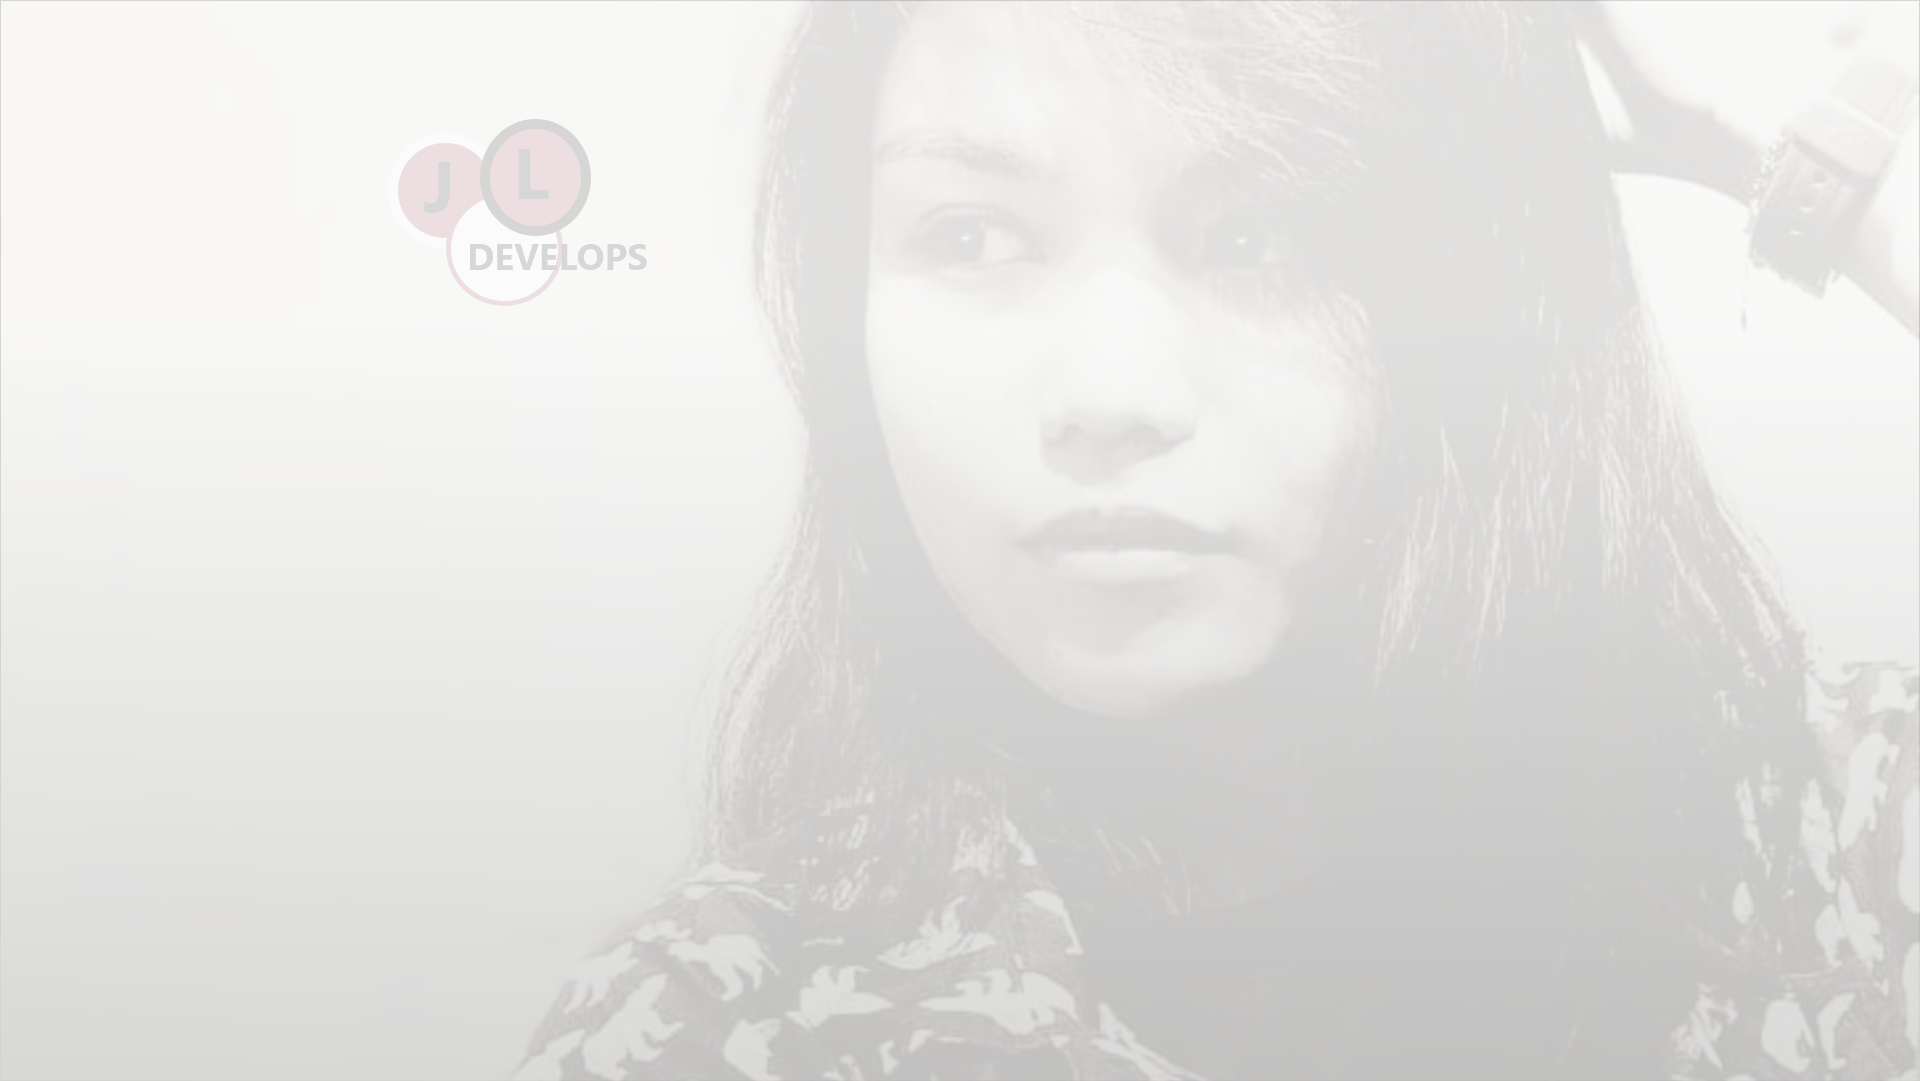
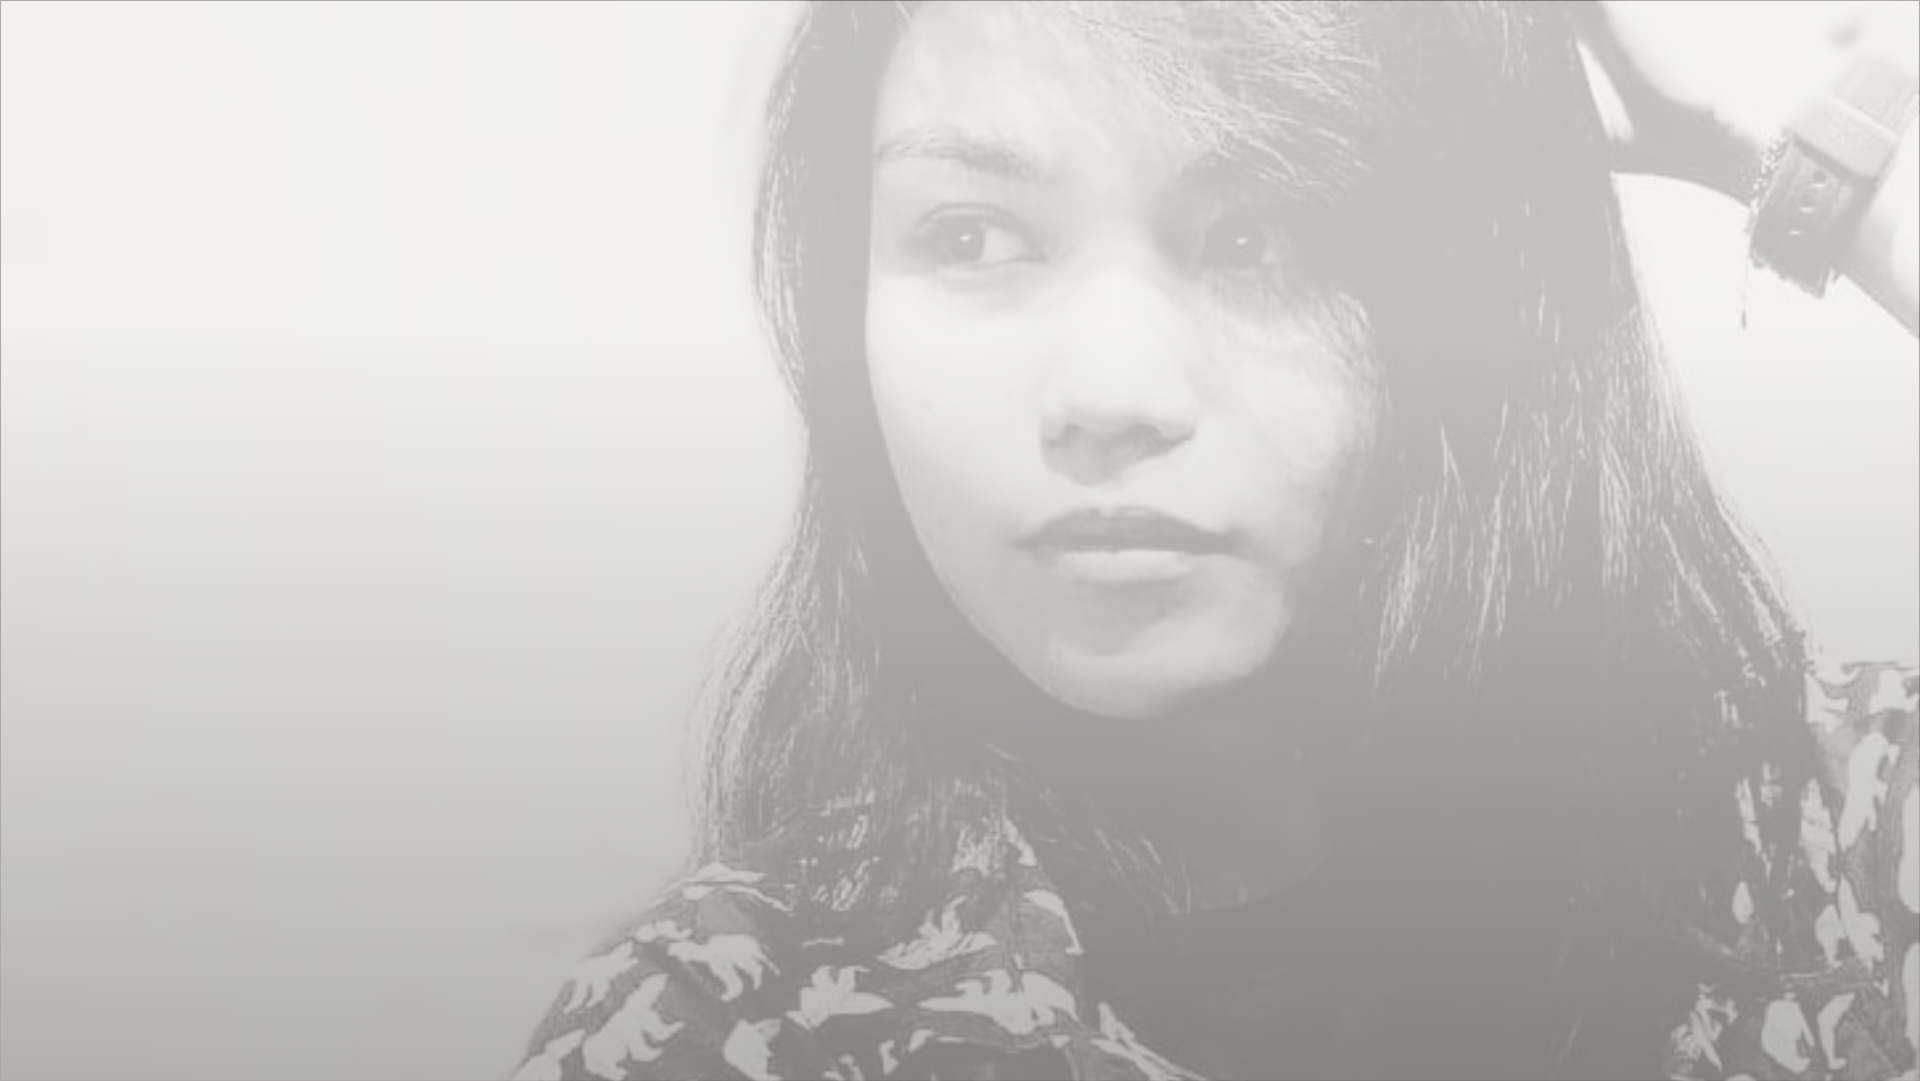
footer

diff --git a/htdocs/wp-content/themes/template/data/scss/layout/pages/_index.scss b/htdocs/wp-content/themes/template/data/scss/layout/pages/_index.scss
@@ -1,20 +1,45 @@
 .p-index {
+padding-top: 65px;
+
   &__carousel {
     height: 600px;
     background: url("../img/index/bg-main-visual.jpg") no-repeat;
     background-size: cover;
+    background-attachment: fixed;
+    background-position-y: 65px;
     position: relative;
-    top: 65px;
 
     @include mq_sp {
-      height: 20rem;
+      height: 100vh;
       background: url("../img/index/sp_bg-main-visual.jpg") no-repeat;
       background-size: cover;
+      background-attachment: fixed;
+      background-position-y: 65px;
     }
 
     &__text {
       position: absolute;
       top: 250px;
+
+      @include mq_pc {
+        &::before {
+          position: absolute;
+          content: "";
+          height: 92px;
+          width: 131px;
+          background: url("../img/common/logo.svg") no-repeat;
+          background-size: contain;
+          left: 0;
+          right: 0;
+          margin: auto;
+          top: -160px;
+          opacity: 0.2;
+        }
+      }
+
+      @include mq_sp {
+        top: 0;
+      }
 
       &1 {
         font-size: 50px;
@@ -38,5 +63,10 @@
         }
       }
     }
+  }
+
+  &__works {
+    background: #afafaf;
+    padding: 100px 0;
   }
 }

diff --git a/htdocs/wp-content/themes/template/data/scss/layout/_footer.scss b/htdocs/wp-content/themes/template/data/scss/layout/_footer.scss
@@ -1,15 +1,37 @@
 .l-footer {
-background: #afafaf;
+  background: url("../img/common/bg-footer.png") no-repeat;
+  background-size: cover;
+  background-position: center 12px;
+  width: 100%;
+  height: auto;
+  text-align: center;
+  padding: 35px 0 0;
+  margin-top: -100px;
 
   &__logo {
+    margin-bottom: 40px;
+
     &__anchor {
       text-decoration: none;
       color: inherit;
     }
   }
 
+  &__icon-container {
+    height: 28px;
+    display: flex;
+    justify-content: center;
+    gap: 25px;
+    margin-bottom: 40px;
+
+    &__icon {
+      //
+    }
+  }
+
   &__copyright {
     text-align: center;
-    padding: 1rem 0;
+    padding: 7.5px 0;
+    background: $primary;
   }
 }

diff --git a/htdocs/wp-content/themes/template/data/scss/component/_c-button.scss b/htdocs/wp-content/themes/template/data/scss/component/_c-button.scss
@@ -2,11 +2,12 @@
   display: block;
   text-align: center;
   width: max-content;
-  padding: 0.5rem 2rem;
-  background: #afafaf;
-  border: 1px solid #000;
+  padding: 10px 42px;
+  background: #fff;
+  border: 0.5px solid $secondary;
+  border-radius: 40px;
   text-decoration: none;
-  color: #000;
+  color: $primary;
   transition: 0.3s;
 
   &:hover {

diff --git a/htdocs/wp-content/themes/template/data/scss/base/_variables.scss b/htdocs/wp-content/themes/template/data/scss/base/_variables.scss
@@ -7,7 +7,7 @@ $pc-min-width: calc(#{$pc-layout-width}px + #{$pc-margin * 2});
 // SmartPhone
 $sp-width: 375;
 $sp-width-breakpoint: $sp-width * 2;
-$sp-margin: 2rem;
+$sp-margin: 1rem;
 
 //default
 $font-default: 'Noto Sans', sans-serif;

diff --git a/htdocs/wp-content/themes/template/page-home.php b/htdocs/wp-content/themes/template/page-home.php
@@ -6,21 +6,24 @@
       <div class="p-index__carousel__text">
         <p class="p-index__carousel__text1 u-font-serif">Hi there! I am <span class="p-index__carousel__text1__span">JEN</span>.</p>
         <p class="p-index__carousel__text2">A developer that loves designing and developing.<br> <span></span> Let me build your idea into reality for I am<br><span class="p-index__carousel__text2__span">YOUR DREAM DEVELOPER</span>.</p>
-        <a href="#" class="c-button">Build Now!</a>
+        <a href="#" class="c-button u-font-serif">Build Now!</a>
       </div>
     </div>
   </div>
-  <div class="u-layout">
-    <h1 class="u-heading">This is Heading</h1>
-    <h2 class="u-subheading">This is Subheading</h2>
-    <p class="u-text is-big">This is Big Text</p>
-    <p class="u-text is-med">This is Medium Text</p>
-    <p class="u-text is-small">This is Small Text</p>
+  <div class="p-index__works">
+    <div class="u-layout">
+      <h1 class="u-heading">This is Heading</h1>
+      <h2 class="u-subheading">This is Subheading</h2>
+      <p class="u-text is-big">This is Big Text</p>
+      <p class="u-text is-med">This is Medium Text</p>
+      <p class="u-text is-small">This is Small Text</p>
 
-    <a href="#" class="c-button">Button</a>
-    <a href="#" class="c-button is-primary">Primary Button</a>
-    <a href="#" class="c-button is-secondary">Secondary Button</a>
+      <a href="#" class="c-button">Button</a>
+      <a href="#" class="c-button is-primary">Primary Button</a>
+      <a href="#" class="c-button is-secondary">Secondary Button</a>
+    </div>
   </div>
+
 </div>
 
 <?php get_footer(); ?>

diff --git a/htdocs/wp-content/themes/template/footer.php b/htdocs/wp-content/themes/template/footer.php
@@ -1,9 +1,16 @@
 <footer>
   <div class="l-footer">
     <div class="u-layout">
-      <p class="l-footer__logo"><a href="<?php echo home_url('/') ?>" class="l-footer__logo__anchor">Logo</a></p>
-      <p class="l-footer__copyright">All rights reserved 2022</p>
+      <p class="l-footer__logo"><a href="<?php echo home_url('/') ?>" class="l-footer__logo__anchor"> <img src="<?php echo get_template_directory_uri(); ?>/data/img/common/logo.svg" alt="jldevelops-logo"> </a></p>
+      <div class="l-footer__icon-container">
+        <a href="#" class="l-footer__icon-container__icon"><img src="<?php echo get_template_directory_uri(); ?>/data/img/common/tel.svg" alt="phone"></a>
+        <a href="#" class="l-footer__icon-container__icon"><img src="<?php echo get_template_directory_uri(); ?>/data/img/common/mail.svg" alt="mail"></a>
+        <a href="#" class="l-footer__icon-container__icon"><img src="<?php echo get_template_directory_uri(); ?>/data/img/common/fb.svg" alt="fb"></a>
+        <a href="#" class="l-footer__icon-container__icon"><img src="<?php echo get_template_directory_uri(); ?>/data/img/common/instagram.svg" alt="instagram"></a>
+        <a href="#" class="l-footer__icon-container__icon"><img src="<?php echo get_template_directory_uri(); ?>/data/img/common/linkedin.svg" alt="linkedin"></a>
+      </div>
     </div>
+    <p class="l-footer__copyright">© 2022 jl.develops</p>
   </div>
 </footer>
 

diff --git a/htdocs/wp-content/themes/template/header.php b/htdocs/wp-content/themes/template/header.php
@@ -3,6 +3,7 @@
   <head>
     <meta charset="utf-8">
     <meta name="viewport" content="width=device-width, initial-scale=1.0">
+    <link rel="preconnect" href="https://fonts.googleapis.com">
     <link rel="stylesheet" href="<?php echo get_template_directory_uri();?>/data/css/style.css">
     <title>jldevelops</title>
     <?php wp_head(); ?>
